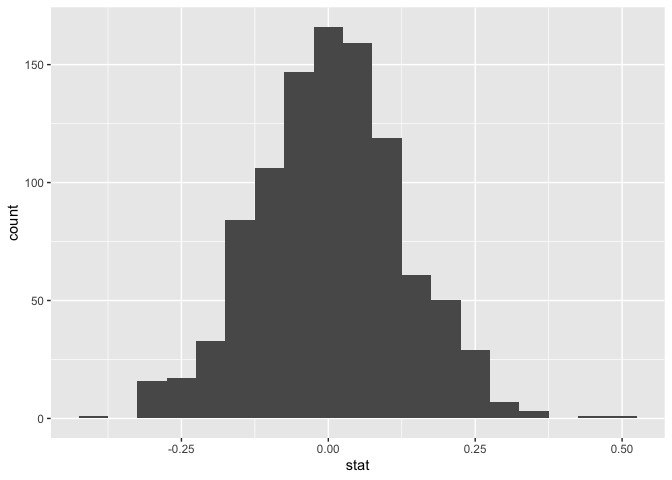
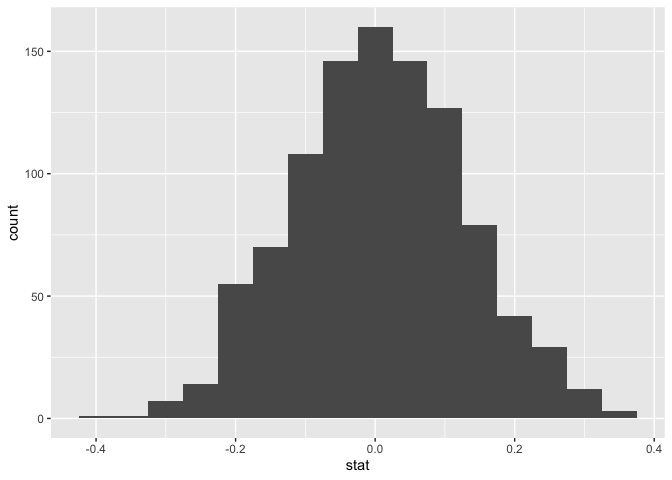
completed lab 12

diff --git a/lab-12.md b/lab-12.md
@@ -1,7 +1,7 @@
 Lab 12 - Smoking during pregnancy
 ================
 Sophie Boyd
-4-10-26
+4-20-26
 
 ### Load packages and data
 
@@ -176,9 +176,8 @@ boot_df %>%
     ##     <dbl>
     ## 1   0.012
 
-\*\*update response with p-value The mean of the simulated means fell
-just outside of the 95% confidence interval, meaning that just about 5%
-of the simulated means were at least as extreme as my observed value.
+1.2% of the values are as extreme or more extreme than the observed mean
+of 7.32.
 
 ### Exercise 4e
 
@@ -258,11 +257,13 @@ the simulated mean difference was significantly different from 0.
   weight between babies of non-smoking vs. smoking mothers (0.35).
 
 - To generate the sampling distribution under the null hypothesis, I
-  will simulated a distribution that is centered at 0 to represent the
+  will simulate a distribution that is centered at 0 to represent the
   conditions under which there is no difference in birth weight between
-  babies of non-smokiing and smoking mothers:
+  babies of non-smoking and smoking mothers:
 
 ``` r
+set.seed(123)
+
 null_dist <- ncbirths_clean %>%
   specify(response = weight, explanatory = habit) %>%
   hypothesize(null = "independence") %>%
@@ -288,11 +289,11 @@ null_dist %>%
     ## # A tibble: 1 × 1
     ##   p_value
     ##     <dbl>
-    ## 1   0.004
+    ## 1   0.001
 
-- The p-value was .006. If there were no difference in the mean birth
+- The p-value was .001. If there were no difference in the mean birth
   weight of babies of non-smoking and smoking mothers, there would be
-  only a 0.6% chance of obtaining our observed result (difference of
+  only a 0.1% chance of obtaining our observed result (difference of
   .35) or a more extreme result.
 
 ### Exercise 10
@@ -318,7 +319,118 @@ boot_diff_df %>%
     ##   <dbl> <dbl>
     ## 1 0.113 0.579
 
-Based on our data, 95% of the simulated mean differences in birth weight
-between non-smoking and smoking mothers fell between .11 and .58.
+The 95% confidence interval for differences in mean birth weight between
+non-smoking and smoking mothers is from .11 to .58.
 
 ### Exercise 11
+
+``` r
+ncbirths_clean %>%
+  group_by(mature) %>%
+  summarize(min = min(mage), max = max(mage))
+```
+
+    ## # A tibble: 2 × 3
+    ##   mature        min   max
+    ##   <fct>       <int> <int>
+    ## 1 mature mom     35    50
+    ## 2 younger mom    13    34
+
+The minimum age to classify a mom as “mature” is 35 years old.
+
+### Exercise 12
+
+- Null hypothesis: Mother’s age and birth weight are independent. There
+  is not a significant difference in the proportions of low birth weight
+  babies between older and younger mothers. (H0:p1 - p2 = 0)
+
+- Alternative hypothesis (directional): Mother’s age and birth weight
+  are dependent. The proportion of low birth weight babies is higher
+  among mature mothers than among younger mothers (H1:p1 - p2 \> 0)
+
+- Conditions for inference: The sample is reasonably large and
+  observations are independent. There is one high outlier on maternal
+  age that I will exclude before proceeding:
+
+``` r
+ncbirths_clean <- ncbirths_clean %>%
+  filter(mage < 50)
+```
+
+- Test method: permutation
+
+``` r
+set.seed(123)
+null_dist <- ncbirths_clean %>%
+  specify(
+    response = lowbirthweight,
+    explanatory = mature,
+    success = "low"
+  ) %>%
+  hypothesize(null = "independence") %>%
+  generate(1000, type = "permute") %>%
+  calculate(
+    stat = "diff in props",
+    order = c("younger mom", "mature mom")
+  )
+```
+
+``` r
+ncbirths_clean %>%
+  count(mature, lowbirthweight) %>%
+  group_by(mature) %>%
+  mutate(p_hat = n/sum(n))
+```
+
+    ## # A tibble: 4 × 4
+    ## # Groups:   mature [2]
+    ##   mature      lowbirthweight     n  p_hat
+    ##   <fct>       <fct>          <int>  <dbl>
+    ## 1 mature mom  low               13 0.102 
+    ## 2 mature mom  not low          114 0.898 
+    ## 3 younger mom low               77 0.0906
+    ## 4 younger mom not low          773 0.909
+
+The observed difference in proportions is .012.
+
+``` r
+null_dist %>%
+  filter(stat >= .012) %>%
+  summarize(p_value = n() / nrow(null_dist))
+```
+
+    ## # A tibble: 1 × 1
+    ##   p_value
+    ##     <dbl>
+    ## 1   0.369
+
+The p-value is .369, so there is not a significant difference in the
+proportions of low birth weight babies between mature mothers and
+younger mothers.
+
+### Exercise 13
+
+``` r
+set.seed(123)
+
+boot_diff_df <- ncbirths_clean %>%
+  specify(response = lowbirthweight, explanatory = mature, success = "low") %>%
+  generate(reps = 1000, type = "bootstrap") %>%
+  calculate(stat = "diff in props",
+           order = c("younger mom", "mature mom"))
+```
+
+``` r
+boot_diff_df %>%
+  summarize(lower = quantile(stat, 0.025),
+            upper = quantile(stat, 0.975))
+```
+
+    ## # A tibble: 1 × 2
+    ##     lower  upper
+    ##     <dbl>  <dbl>
+    ## 1 -0.0667 0.0407
+
+The bounds of the 95% confidence interval span negative and positive
+values, meaning that a difference in proportions of low birth weight
+babies in either direction would be reasonable to expect.
